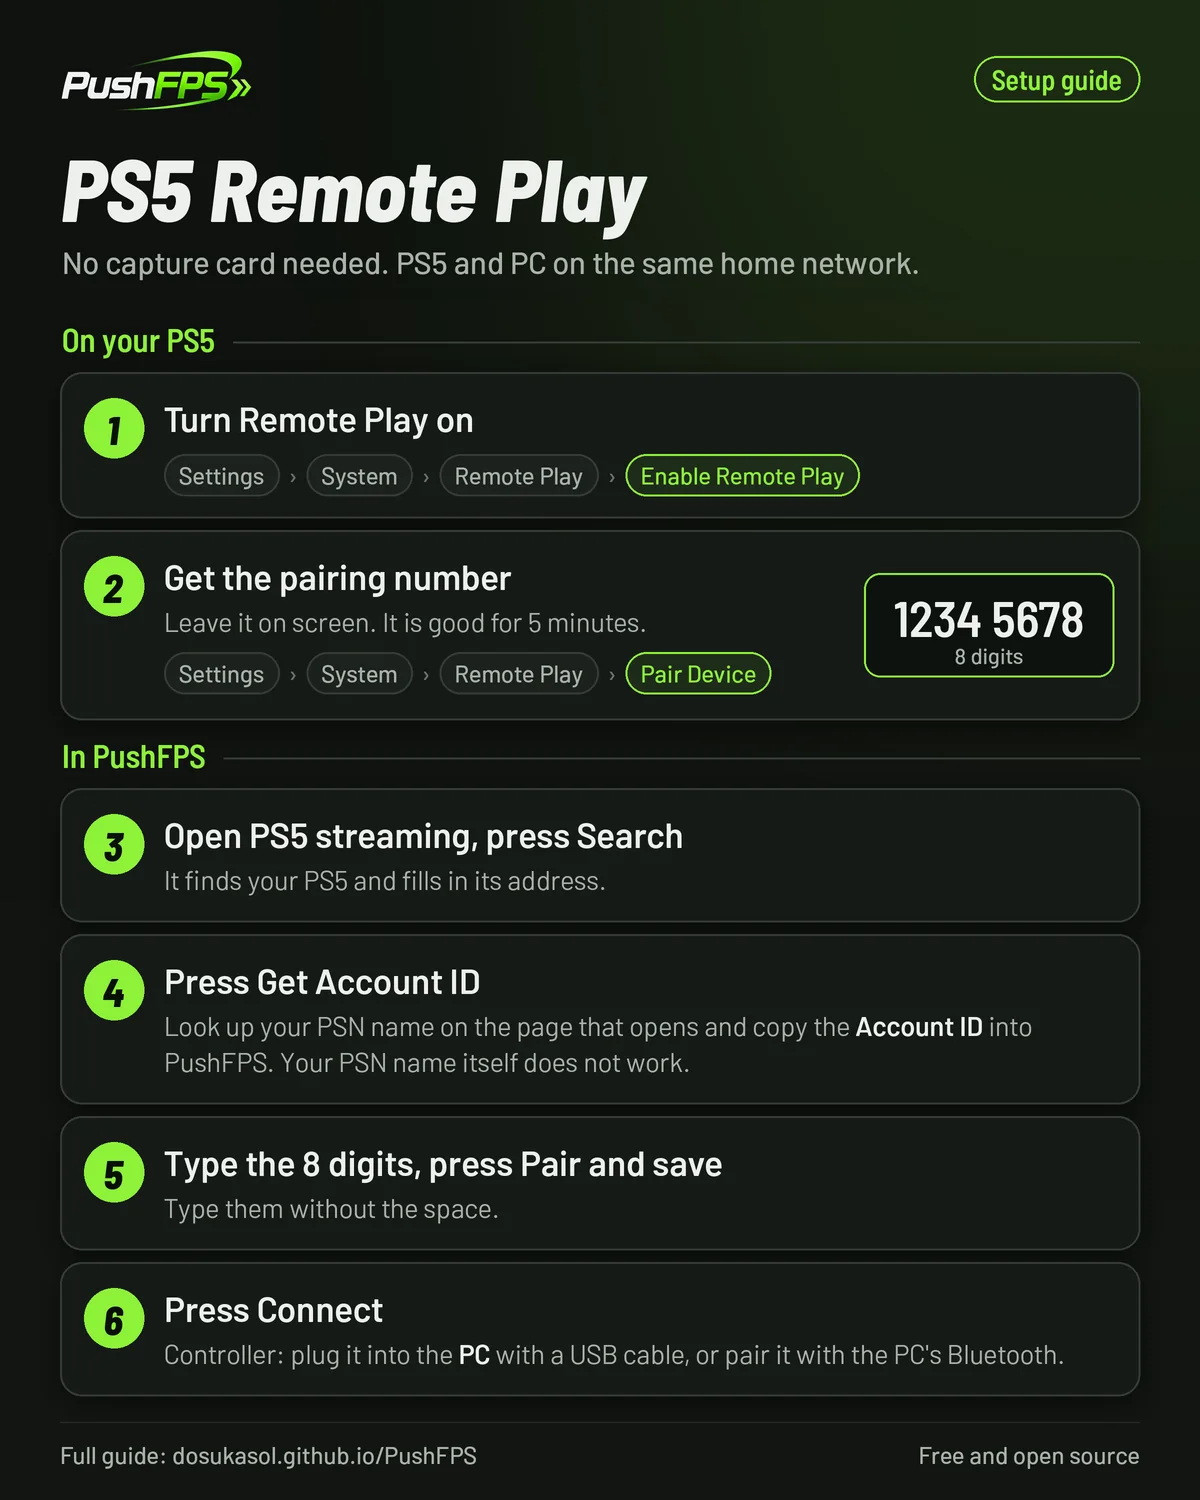
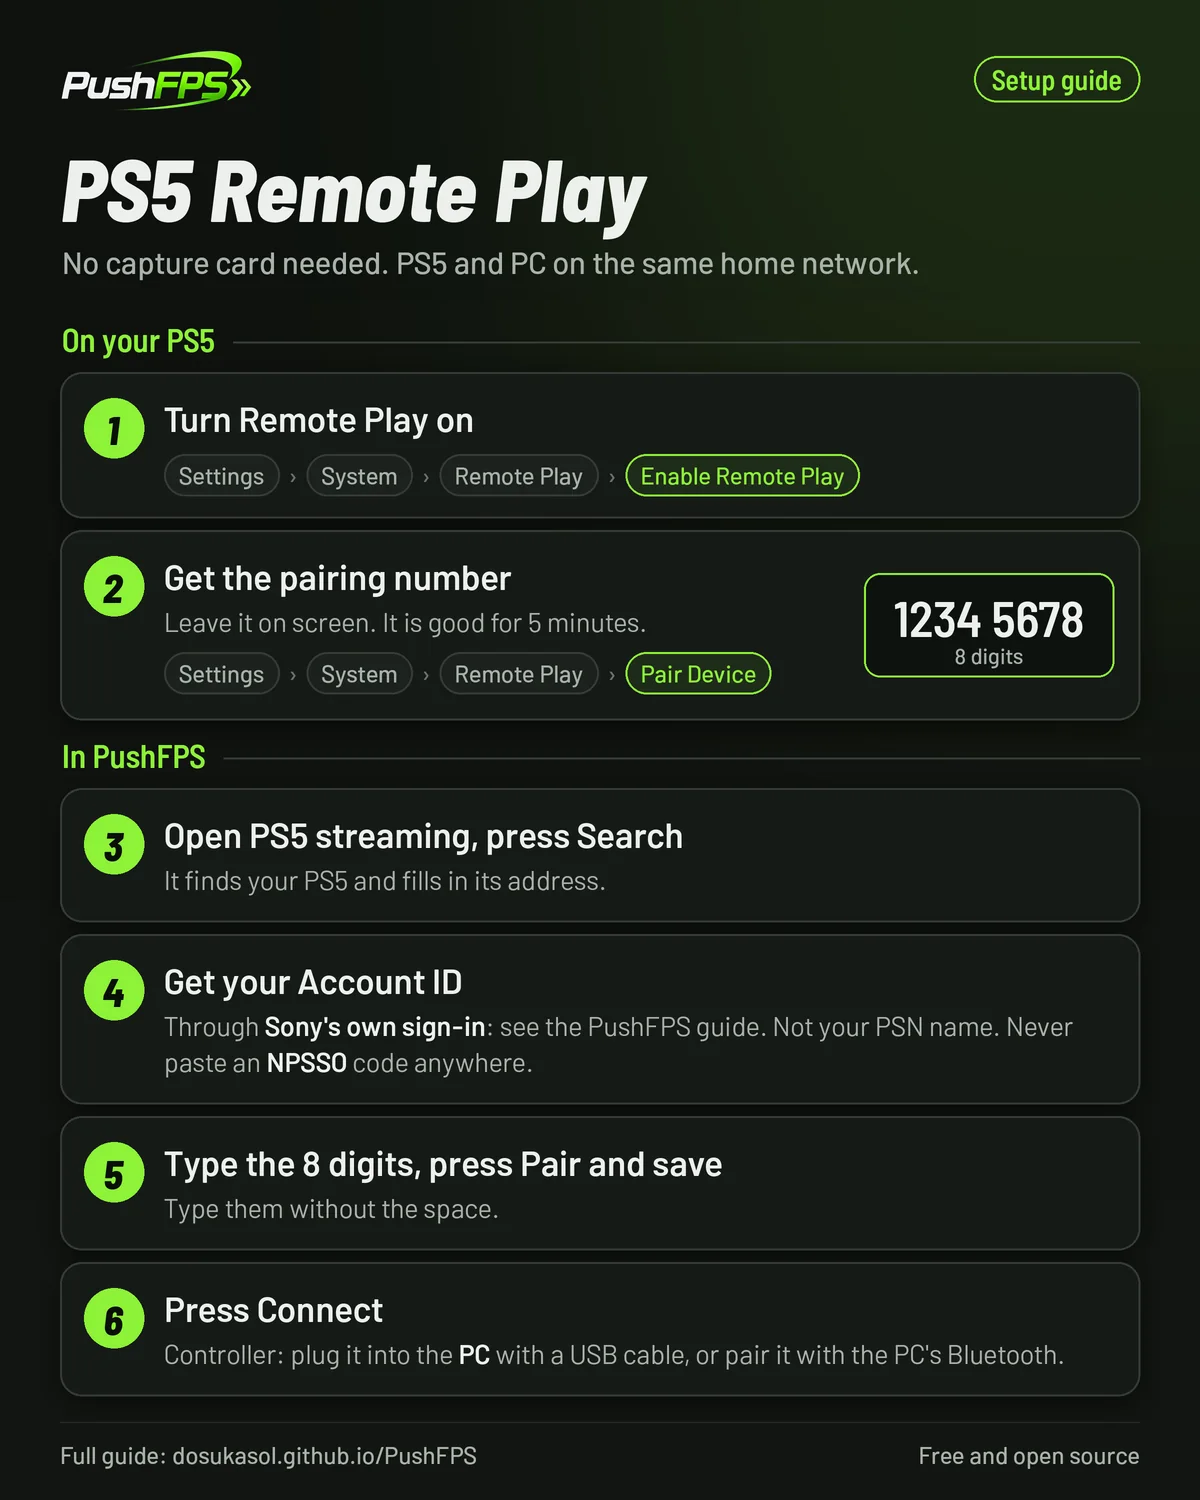
Remote Play guide: get the Account ID through Sony's own sign-in, never a lookup site
The PS5 steps no longer send anyone to the third-party lookup page the Get Account ID button opens. A new
page, docs/PSN-ACCOUNT-ID.md, explains Sony's own sign-in routes and warns never to paste an NPSSO code,
which is the signed-in PSN session, and what to do if one was pasted. README, website, setup guide and the
PS5 and help graphics say the same.

[skip ci]

Claude-Session: https://claude.ai/code/session_01TMAzA9HkCLcfknHZQ6qwKM

Changed region(s): [[0.1233, 0.644, 0.8942, 0.736]]

diff --git a/website/index.html b/website/index.html
@@ -548,7 +548,7 @@
             <h3 class="rp-h">In PushFPS</h3>
             <ol class="rp-steps" start="3">
               <li><b>Open PS5 streaming and press Search.</b> It finds your PS5 and fills in its address. <small>Nothing found? Type the IP address the PS5 shows under Settings → Network → Connection Status → View Connection Status.</small></li>
-              <li><b>Press Get Account ID.</b> A page opens in your browser. Look up your PSN name there and copy the Account ID into PushFPS: a long number, or 12 characters ending in <code>=</code>. Your PSN name itself does not work.</li>
+              <li><b>Get your Account ID through Sony's own sign-in</b> (<a href="https://github.com/DosukaSOL/PushFPS/blob/main/docs/PSN-ACCOUNT-ID.md" target="_blank" rel="noopener">how</a>) and copy it into the <em>PSN Account ID</em> box: 12 characters ending in <code>=</code>, or a long number. Your PSN name itself does not work. <small>Never paste an <em>NPSSO</em> code anywhere: it is your signed-in PSN session.</small></li>
               <li><b>Type the 8 digits and press Pair and save.</b> Type them without the space.</li>
               <li><b>Press Connect.</b> If the PS5 asks for the sign-in PIN of your PS5 user, type it under <em>Sign-in PIN</em> in the same window.</li>
             </ol>
@@ -584,7 +584,7 @@
           <div class="rp-text">
             <h3 class="rp-h">The PS5 will not pair</h3>
             <ul class="rp-checks">
-              <li><b>Account ID</b> is the number from <em>Get Account ID</em>, not your PSN name.</li>
+              <li><b>Account ID</b> is the ID from <a href="https://github.com/DosukaSOL/PushFPS/blob/main/docs/PSN-ACCOUNT-ID.md" target="_blank" rel="noopener">Sony's sign-in</a>, not your PSN name.</li>
               <li>The 8 digits: no space, and a new number once 5 minutes have passed.</li>
               <li>No address? Press <em>Search</em>, or type the PS5's IP address.</li>
               <li>PS5 and PC on the same network: no guest Wi-Fi, no VPN. If Windows asks whether PushFPS may use the network, allow it.</li>

diff --git a/scripts/brand/make_remote_play_guide.py b/scripts/brand/make_remote_play_guide.py
@@ -257,7 +257,7 @@ def ps5(folder):
              path=["Settings", "System", "Remote Play", "Pair Device"], code="1234 5678", code_note="8 digits")
     y = group(ImageDraw.Draw(img), y + px(6), "In PushFPS")
     y = step(img, y, 3, "Open PS5 streaming, press Search", "It finds your PS5 and fills in its address.")
-    y = step(img, y, 4, "Press Get Account ID", "Look up your PSN name on the page that opens and copy the *Account ID* into PushFPS. Your PSN name itself does not work.")
+    y = step(img, y, 4, "Get your Account ID", "Through *Sony's own sign-in*: see the PushFPS guide. Not your PSN name. Never paste an *NPSSO* code anywhere.")
     y = step(img, y, 5, "Type the 8 digits, press Pair and save", "Type them without the space.")
     y = step(img, y, 6, "Press Connect", "Controller: plug it into the *PC* with a USB cable, or pair it with the PC's Bluetooth.")
     save(img, "remote-play-ps5", folder)
@@ -283,7 +283,7 @@ def help_card(folder):
     img, d, y = base("Setup guide", "Remote Play not working?", ["What to check, quickest first."])
     y += px(4)
     y = checks(img, y, "The PS5 will not pair", [
-        "*Account ID* is the number from *Get Account ID*, not your PSN name.",
+        "*Account ID* comes from Sony's sign-in, not your PSN name.",
         "The 8 digits: no space, and a new number once 5 minutes have passed.",
         "No address? Press *Search*, or type the PS5's IP address.",
         "PS5 and PC on the same network. No guest Wi-Fi, no VPN."])

diff --git a/CLAUDE.md b/CLAUDE.md
@@ -183,7 +183,7 @@ and edits would conflict on every merge.
 | Sunset City look (intro, home logo, startup music) | PushFPS's own: `PushIntro.qml` (3.26 s, timed to the music's beats 0.64/0.76/1.12 s, glides into `HomePage.wordmarkItem`; `--intro-at <ms>` holds a frame for screenshots), sunset logo on `HomePage.qml` (pref `pushSunset`), prefs `introAnimation` / `introMusic` (`Main.qml` `brandIntro` / `musicOn`, never in test runs; the music is off unless `introMusic` is true, since 3.0.0), switches `set-sunset` / `set-intro` / `set-intro-music` in `SettingsPage.qml`; art drawn by `scripts/brand/make_sunset.py` (change it there; "Sunset City", never GTA or Rockstar names or art); tests `tst_push_intro.qml`. The music is Veyra's `media/startup-music.mp3`, played from Veyra's installed package only: never copy it into the repo, the release zips or a Steam depot (its notice limits permission to Veyra packages). Veyra's own dusk palette and `DuskIntro.qml` stay unused: `Theme.qml` keeps the palette API fixed to "classic" and the palette row stays hidden when merging upstream |
 | Branding rule | The Sunset City look (sunset logo, neon colours) is only for the app's default look and the website around GTA VI's release. Promo graphics, store art, the README and its screenshots use the PushFPS brand: graphite, logo green (`#8df237`), the classic logo (`assets/pushfps-logo.png`). README screenshots come from the `R-*` entries of the screenshots workflow since 4.3.1 (1440 x 900, the new design in graphite; `R-legacy` with `--pref pushSunset=false`; the home-based ones with three quick setup sections folded, so the runner's "Requires an NVIDIA RTX GPU" rows are not the first thing seen), taken from the released package: `screenshots.yml --ref main -f run_id=<the release build> -f only='^R-'`, then `R-<name>.png` -> `assets/screenshots/<name>.png` and, for the website, `website/assets/shots/<name>.webp` (Pillow, quality 80, method 6). In the new design the picture and sound panel is on the home page, so `R-picture-sound` is the same picture as `R-home` and is used nowhere (the website's Picture and sound tab shows `home`) |
 | Steam store kit, code signing | `packaging/steam/` (store copy with Veyra/Likely7 and Apex credits, brand art by `scripts/brand/make_steam.py`; Steamworks steps need the owner's account); `packaging/signing/README.md` (SignPath Foundation is the only route that keeps the owner's name off the certificate; current blockers; never add a "Code signing policy" claim before approval) |
-| Remote Play setup guide (24 November 2026; the owner: "add clear instructions on the website and github readme on how to setup remote play for ps5 as well as for xbox. Include graphics for it", because people fail to pair, get no controller, or see it stop after connecting) | **Four places say the same steps: change them together.** `scripts/brand/make_remote_play_guide.py` draws the three graphics (PS5, Xbox, what to check; 1200 x 1500, the PushFPS brand, everything drawn: no screenshot, no console maker's mark, nobody's account name) into `assets/guides/*.png` and `website/assets/guides/*.webp`, or into a folder given on the command line for a post; `README.md` (*Remote Play setup, step by step*, under *No capture card? Stream instead*); `website/index.html` section `#remote-play` (tabs PS5 / Xbox / Not working?, classes `rp-*` in `styles.css`; the tab script in `app.js` now minds each `.ctabs` list by itself: one shared list made a second group hide the first group's panels; the nav has six links, is tighter under 1260 px and hidden under 1080, where five links already wrapped before); `docs/PushFPS-Setup-Guide.txt` section 8. The steps were read from `Ps5SourceDialog.qml`, `XboxSourceDialog.qml` and `RemotePlay.cpp` and the consoles' menu names from Sony's and Microsoft's own pages that day: the PS5's menu entry is *Pair Device* on current system software (the dialog's hint still says *Link Device*: to be changed in the app). What the guide has to say because of how 4.4.5 behaves, and can stop saying once the app is changed: the 8 digits without the space (the PS5 shows `1234 5678` and `parsePairingPin` wants exactly 8 digits), the PSN name is not the account ID (one message covers a wrong address, account ID and number alike), the controller only passes while PushFPS is the active window, and the first controller Windows lists is the one used. Seen in a headless browser at 390, 1000, 1180, 1280 and 1440 wide in the three looks; the graphics were looked at. **Not checked**: the page *Get Account ID* opens (psntools.com) could not be reached from here, so the guide says what to do there in general words only. |
+| Remote Play setup guide (24 November 2026; the owner: "add clear instructions on the website and github readme on how to setup remote play for ps5 as well as for xbox. Include graphics for it", because people fail to pair, get no controller, or see it stop after connecting) | **Four places say the same steps: change them together.** `scripts/brand/make_remote_play_guide.py` draws the three graphics (PS5, Xbox, what to check; 1200 x 1500, the PushFPS brand, everything drawn: no screenshot, no console maker's mark, nobody's account name) into `assets/guides/*.png` and `website/assets/guides/*.webp`, or into a folder given on the command line for a post; `README.md` (*Remote Play setup, step by step*, under *No capture card? Stream instead*); `website/index.html` section `#remote-play` (tabs PS5 / Xbox / Not working?, classes `rp-*` in `styles.css`; the tab script in `app.js` now minds each `.ctabs` list by itself: one shared list made a second group hide the first group's panels; the nav has six links, is tighter under 1260 px and hidden under 1080, where five links already wrapped before); `docs/PushFPS-Setup-Guide.txt` section 8. The steps were read from `Ps5SourceDialog.qml`, `XboxSourceDialog.qml` and `RemotePlay.cpp` and the consoles' menu names from Sony's and Microsoft's own pages that day: the PS5's menu entry is *Pair Device* on current system software (the dialog's hint still says *Link Device*: to be changed in the app). What the guide has to say because of how 4.4.5 behaves, and can stop saying once the app is changed: the 8 digits without the space (the PS5 shows `1234 5678` and `parsePairingPin` wants exactly 8 digits), the PSN name is not the account ID (one message covers a wrong address, account ID and number alike), the controller only passes while PushFPS is the active window, and the first controller Windows lists is the one used. Seen in a headless browser at 390, 1000, 1180, 1280 and 1440 wide in the three looks; the graphics were looked at. **Not checked**: the page *Get Account ID* opens (psntools.com) could not be reached from here, so the guide says what to do there in general words only. **Since 24 November 2026 the guide no longer sends anyone to PSNTools**: the engine release's 2.2.1 guide says that site asks for the NPSSO cookie (the signed-in PSN session) to register; it could not be confirmed from here, and an Account ID never needs it. The four places point to `docs/PSN-ACCOUNT-ID.md` (Sony's own sign-in: psn-account-id, MIT, read on 24 November 2026 at 4ead1cfc, talks only to Sony; or chiaki-ng's registration) with the NPSSO warning; once a release has PushFPS's own sign-in (the row "Account ID through Sony's own sign-in"), step 4 says to press *Get Account ID* again. |
 | Website (https://dosukasol.github.io/PushFPS/) | `website/` (static HTML/CSS/JS, self-hosted Barlow fonts, no trackers; the only request is GitHub's release API for the newest download link), published by `.github/workflows/pages.yml` on pushes to `website/**`; three looks in `html[data-theme]` (`sunset` default with the canvas sky `startSky` in `app.js`, `classic`, `light`), chosen in the nav and kept in localStorage, applied before first paint by the `<head>` script; screenshots in `website/assets/shots/*.webp` are converted from `assets/screenshots` |
 
 ## Building and releasing

diff --git a/README.md b/README.md
@@ -367,8 +367,9 @@ In PushFPS:
 
 3. **Open PS5 streaming and press Search.** It finds your PS5 and fills in its address. Nothing found? Type
    the IP address the PS5 shows under *Settings → Network → Connection Status → View Connection Status*.
-4. **Press Get Account ID.** A page opens in your browser. Look up your PSN name there and copy the Account
-   ID into PushFPS: a long number, or 12 characters ending in `=`. Your PSN name itself does not work.
+4. **Get your Account ID through Sony's own sign-in** ([how](docs/PSN-ACCOUNT-ID.md)) and copy it into the
+   *PSN Account ID* box: 12 characters ending in `=`, or a long number. Your PSN name itself does not work.
+   Never paste an *NPSSO* code anywhere: it is your signed-in PSN session.
 5. **Type the 8 digits and press Pair and save.** Type them without the space.
 6. **Press Connect.** If the PS5 asks for the sign-in PIN of your PS5 user, type it under *Sign-in PIN* in
    the same window.
@@ -403,7 +404,7 @@ when Microsoft changes its service. Only for your own account and console.
 
 | What happens | What to check |
 |---|---|
-| **The PS5 will not pair** | *Account ID* is the number from *Get Account ID*, not your PSN name. The 8 digits: no space, and a new number once 5 minutes have passed. No address? Press *Search*, or type the PS5's IP address. PS5 and PC on the same network: no guest Wi-Fi, no VPN. If Windows asks whether PushFPS may use the network, allow it |
+| **The PS5 will not pair** | *Account ID* is the ID from [Sony's sign-in](docs/PSN-ACCOUNT-ID.md), not your PSN name. The 8 digits: no space, and a new number once 5 minutes have passed. No address? Press *Search*, or type the PS5's IP address. PS5 and PC on the same network: no guest Wi-Fi, no VPN. If Windows asks whether PushFPS may use the network, allow it |
 | **The controller does nothing** | Connect it to the **PC**, not to the console. Keep PushFPS in front: click its window once (it only passes the controller on while it is the active window). PS5: *View only* off. Xbox: *Controller* on. More than one controller or wheel connected? Unplug the others and connect again |
 | **The Xbox is not in the list** | Sign in on the console with the same Microsoft account. Remote features on, power option *Sleep*, then press *Refresh* |
 | **It stutters, drops out or closes** | Use a network cable for the console, and for the PC if you can. PS5: lower *Requested bitrate*, or set *Decoding* to CPU software. Xbox: turn on *Software video decoding*. Still stuck? *Settings → About → Report a problem* copies what we need to help, or ask on the [Discord](https://discord.gg/N88znNpSgC) |

diff --git a/docs/PSN-ACCOUNT-ID.md b/docs/PSN-ACCOUNT-ID.md
@@ -1,0 +1,38 @@
+# Your PSN Account ID (for PS5 Remote Play)
+
+Pairing PushFPS with a PS5 needs three things: the PS5's address, the 8-digit number the PS5 shows under
+*Settings → System → Remote Play → Pair Device*, and the **Account ID** of a PSN user who is signed in on
+that PS5.
+
+The Account ID is not your PSN name. It is a number Sony gives every account, usually written as 12
+characters ending in `=` (for example `AbCdEfGhIjK=`), sometimes as a long number. It never changes, it is
+not a password, and you need it only once.
+
+## Get it through Sony's own sign-in
+
+Type your PSN password only on Sony's own page: the address bar shows `sony.com` or
+`sonyentertainmentnetwork.com`.
+
+- **psn-account-id** ([github.com/metalito/psn-account-id](https://github.com/metalito/psn-account-id),
+  MIT licence): a small open-source script for Windows PowerShell or Python. It opens Sony's sign-in page;
+  after signing in you paste the address the browser lands on, and it prints your Account ID. It talks only
+  to Sony and saves nothing. As with any script, look at it before you run it: it is one short file.
+- **chiaki-ng** ([github.com/streetpea/chiaki-ng](https://github.com/streetpea/chiaki-ng)), the open-source
+  Remote Play client PushFPS's PS5 streaming is built on: its console registration window has a sign-in to
+  PlayStation that fills in the Account ID.
+
+Copy the ID into the *PSN Account ID* box of PushFPS's PS5 streaming window, then type the 8 digits and
+press *Pair and save*.
+
+## Never paste an "NPSSO" code anywhere
+
+Some Account ID websites ask for an **NPSSO** code, which you are told to copy from a Sony address
+(`ca.account.sony.com/api/v1/ssocookie`). That code is your signed-in PSN session: whoever has it can act as
+you on PSN and see your email, your real name and your purchases. PushFPS never asks for it, and you never
+need it for Remote Play.
+
+If you pasted it into a website: open your PlayStation account settings, choose **Sign out of all
+devices**, change your password, and turn on 2-step verification.
+
+The *Get Account ID* button of PushFPS 4.4.5 and earlier opens a third-party lookup website. Use the ways
+above instead.
